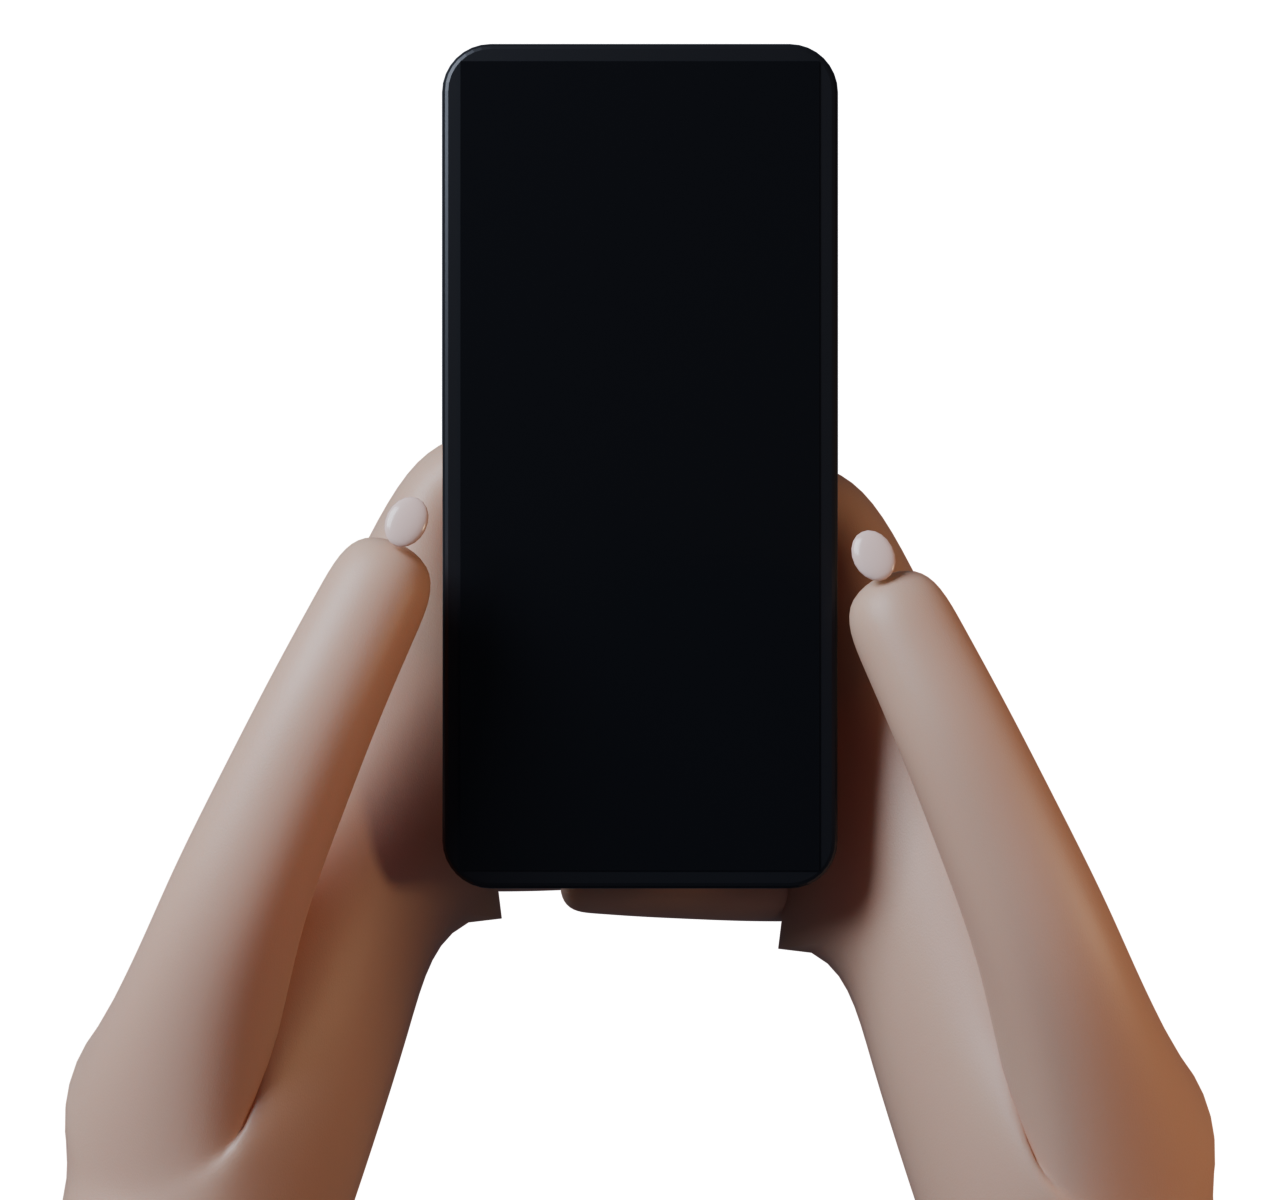
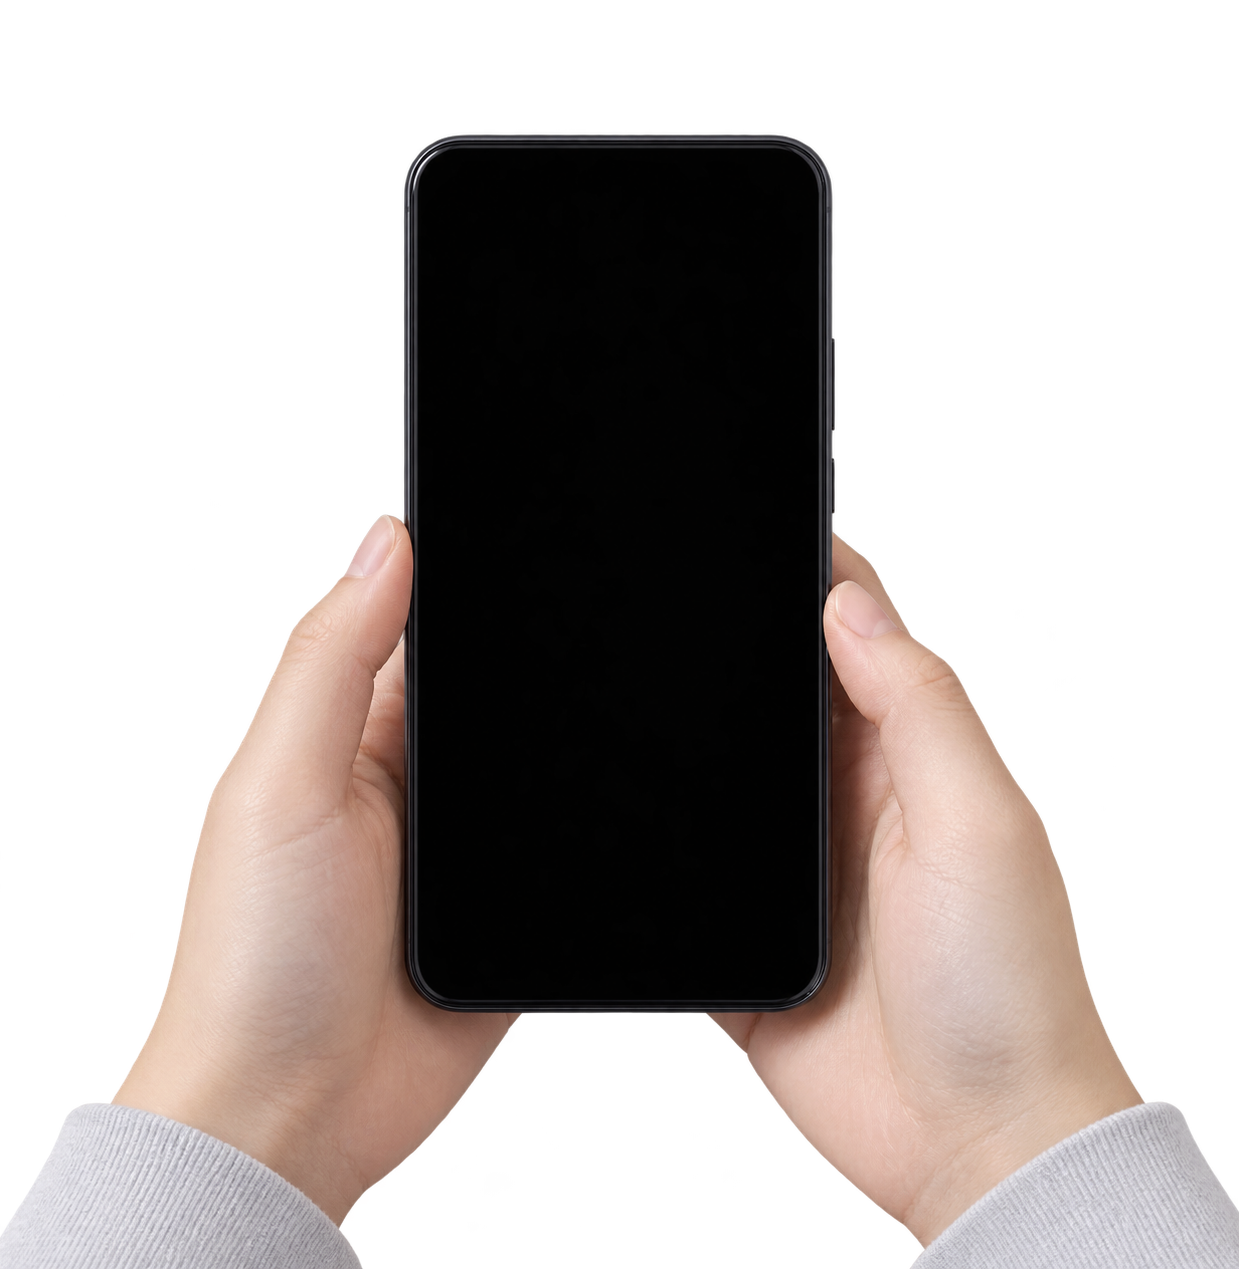
feat: 협성 테스트 페이지의 손 그림 교체와 휴대폰 화면 자리 조정
- 손 그림을 새 그림(1239 x 1269)으로 바꾸고 가로세로 비율을 맞췄다.
- 소매가 그림 아래 좌우 끝에서 잘려 있어, 그림을 화면 아래로 6% 내려 잘린 끝을 숨긴다(HAND_SINK).
- 새 그림의 검은 유리 영역을 다시 재서 휴대폰 화면 자리(PHONE_SCREEN)와 모서리 둥글기를 맞췄다.

Changed region(s): [[0.0, 0.0308, 1.0, 1.0]]

diff --git a/src/sandbox/pages/hyeopseong.tsx b/src/sandbox/pages/hyeopseong.tsx
@@ -17,7 +17,7 @@ import {
 
 const ROOM_URL = `${import.meta.env.BASE_URL}models/room.glb`
 const LIGHTMAP_URL = `${import.meta.env.BASE_URL}models/room_lightmap.png`
-// Blender에서 손과 휴대폰을 만들어 렌더한 그림(1280 x 1200, 배경 투명). 원본은 assets-src/room/room.blend의 hand_phone 장면
+// 두 손으로 쥔 휴대폰 그림(1239 x 1269, 배경 투명). 소매가 그림 아래 좌우 끝에서 잘려 있다.
 const HAND_URL = `${import.meta.env.BASE_URL}images/hand_phone_day.webp`
 
 /** 어떤 장면을 보고 있는지. room: 방을 걸어 다님, laptop: 의자에 앉아 노트북을 봄, phone: 휴대폰을 손에 쥠 */
@@ -46,7 +46,9 @@ const LAPTOP_SCREEN: { center: Vec3; facing: Vec3; width: number; height: number
 /** 노트북 화면이 브라우저 화면에서 차지하는 비율. 1이면 가장자리까지 꽉 찬다. */
 const LAPTOP_FILL = 0.9
 /** 손 그림 안에서 휴대폰 화면이 차지하는 자리. 그림 크기에 대한 비율이라 그림을 바꾸면 이 값도 바꾼다. */
-const PHONE_SCREEN = { left: 0.3597, top: 0.0512, width: 0.2805, height: 0.6743 }
+const PHONE_SCREEN = { left: 0.339, top: 0.1182, width: 0.3204, height: 0.6698 }
+/** 손 그림을 화면 아래로 내리는 정도(그림 높이에 대한 비율). 소매가 잘린 그림 아래 좌우 끝을 화면 밖으로 숨긴다. */
+const HAND_SINK = 0.06
 /** 클릭하면 커서를 잠그는 영역. 버튼을 누를 때는 잠기지 않게 3D 화면으로만 한정한다. */
 const VIEW_ID = 'hyeopseong-view'
 
@@ -312,10 +314,19 @@ function PhoneInHand() {
         justifyContent: 'center',
         background: 'rgb(0 0 0 / 0.45)',
         backdropFilter: 'blur(6px)',
+        overflow: 'hidden',
       }}
     >
-      {/* 손이 화면 아래에서 올라온 것처럼 보이게 아래에 붙인다 */}
-      <div style={{ position: 'relative', height: '96vh', aspectRatio: '1280 / 1200' }}>
+      {/* 손이 화면 아래에서 올라온 것처럼 보이게 아래에 붙이고, 잘린 소매 끝은 화면 밖으로 내린다 */}
+      <div
+        style={{
+          position: 'relative',
+          flexShrink: 0,
+          height: '100vh',
+          aspectRatio: '1239 / 1269',
+          transform: `translateY(${HAND_SINK * 100}%)`,
+        }}
+      >
         <img
           src={HAND_URL}
           alt="두 손으로 세로로 쥔 휴대폰"
@@ -330,7 +341,7 @@ function PhoneInHand() {
             height: `${PHONE_SCREEN.height * 100}%`,
             display: 'grid',
             placeItems: 'center',
-            borderRadius: '6% / 2.7%',
+            borderRadius: '8.8% / 4.1%',
             background: '#e9edf2',
             color: '#30343a',
           }}
